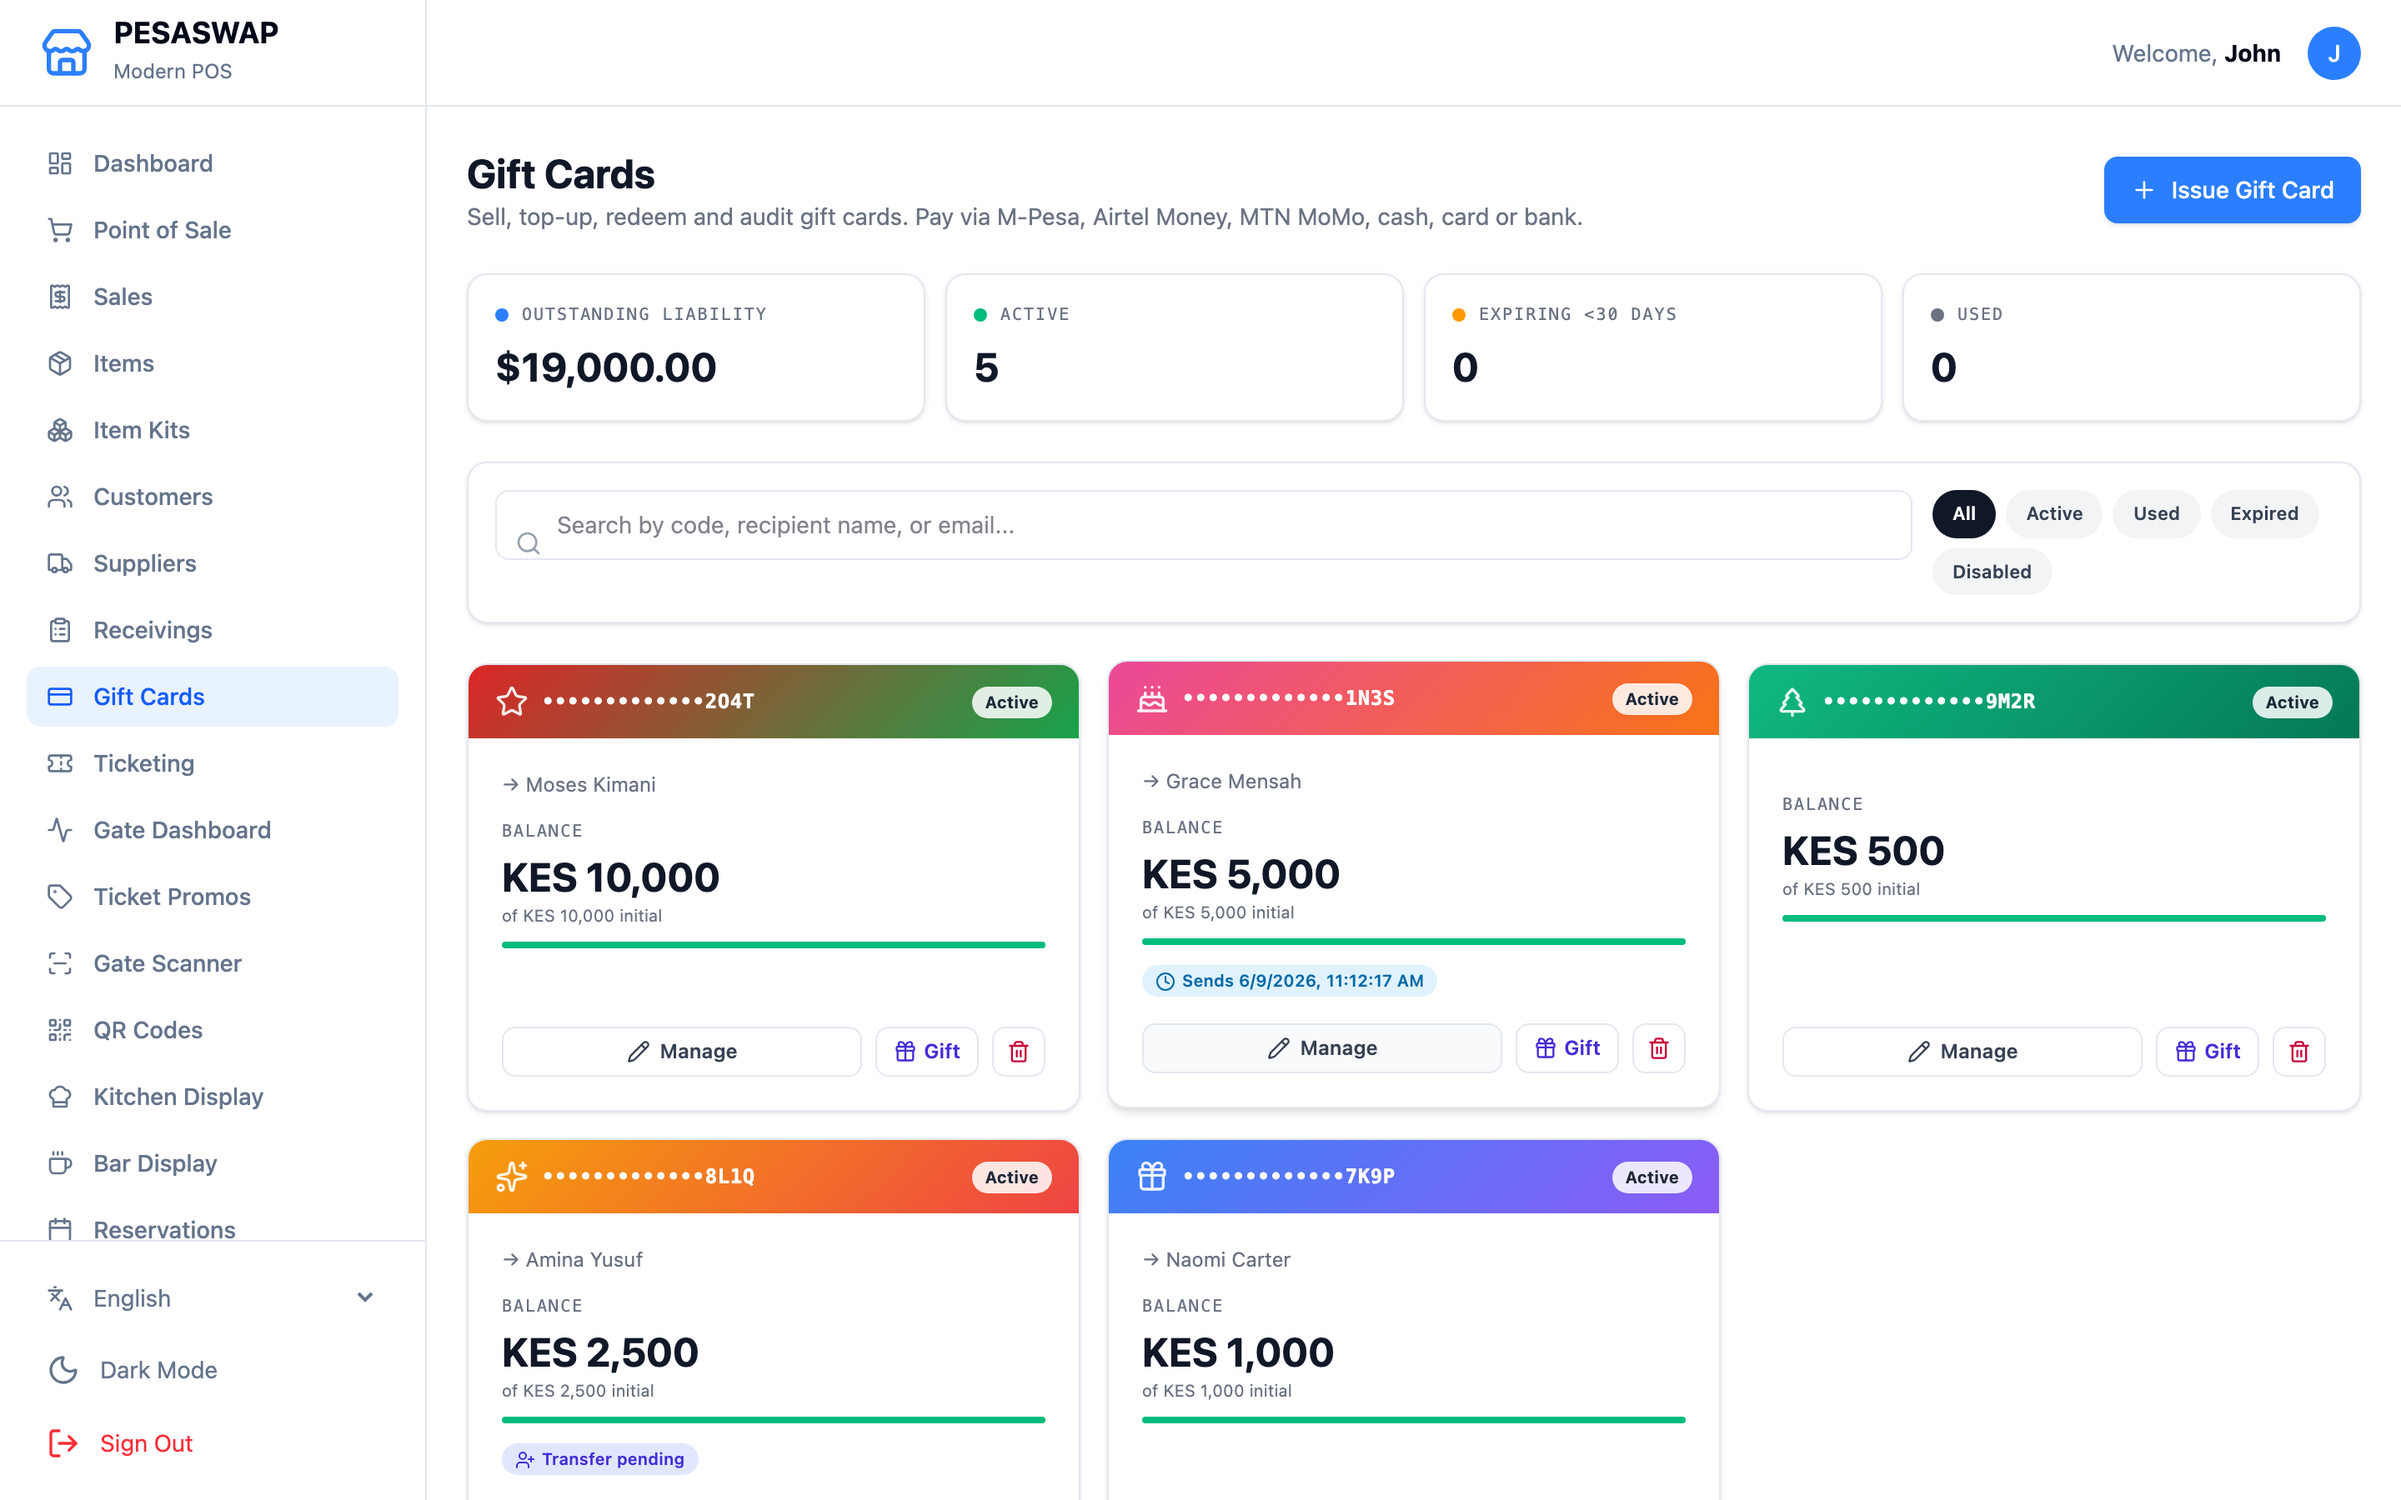
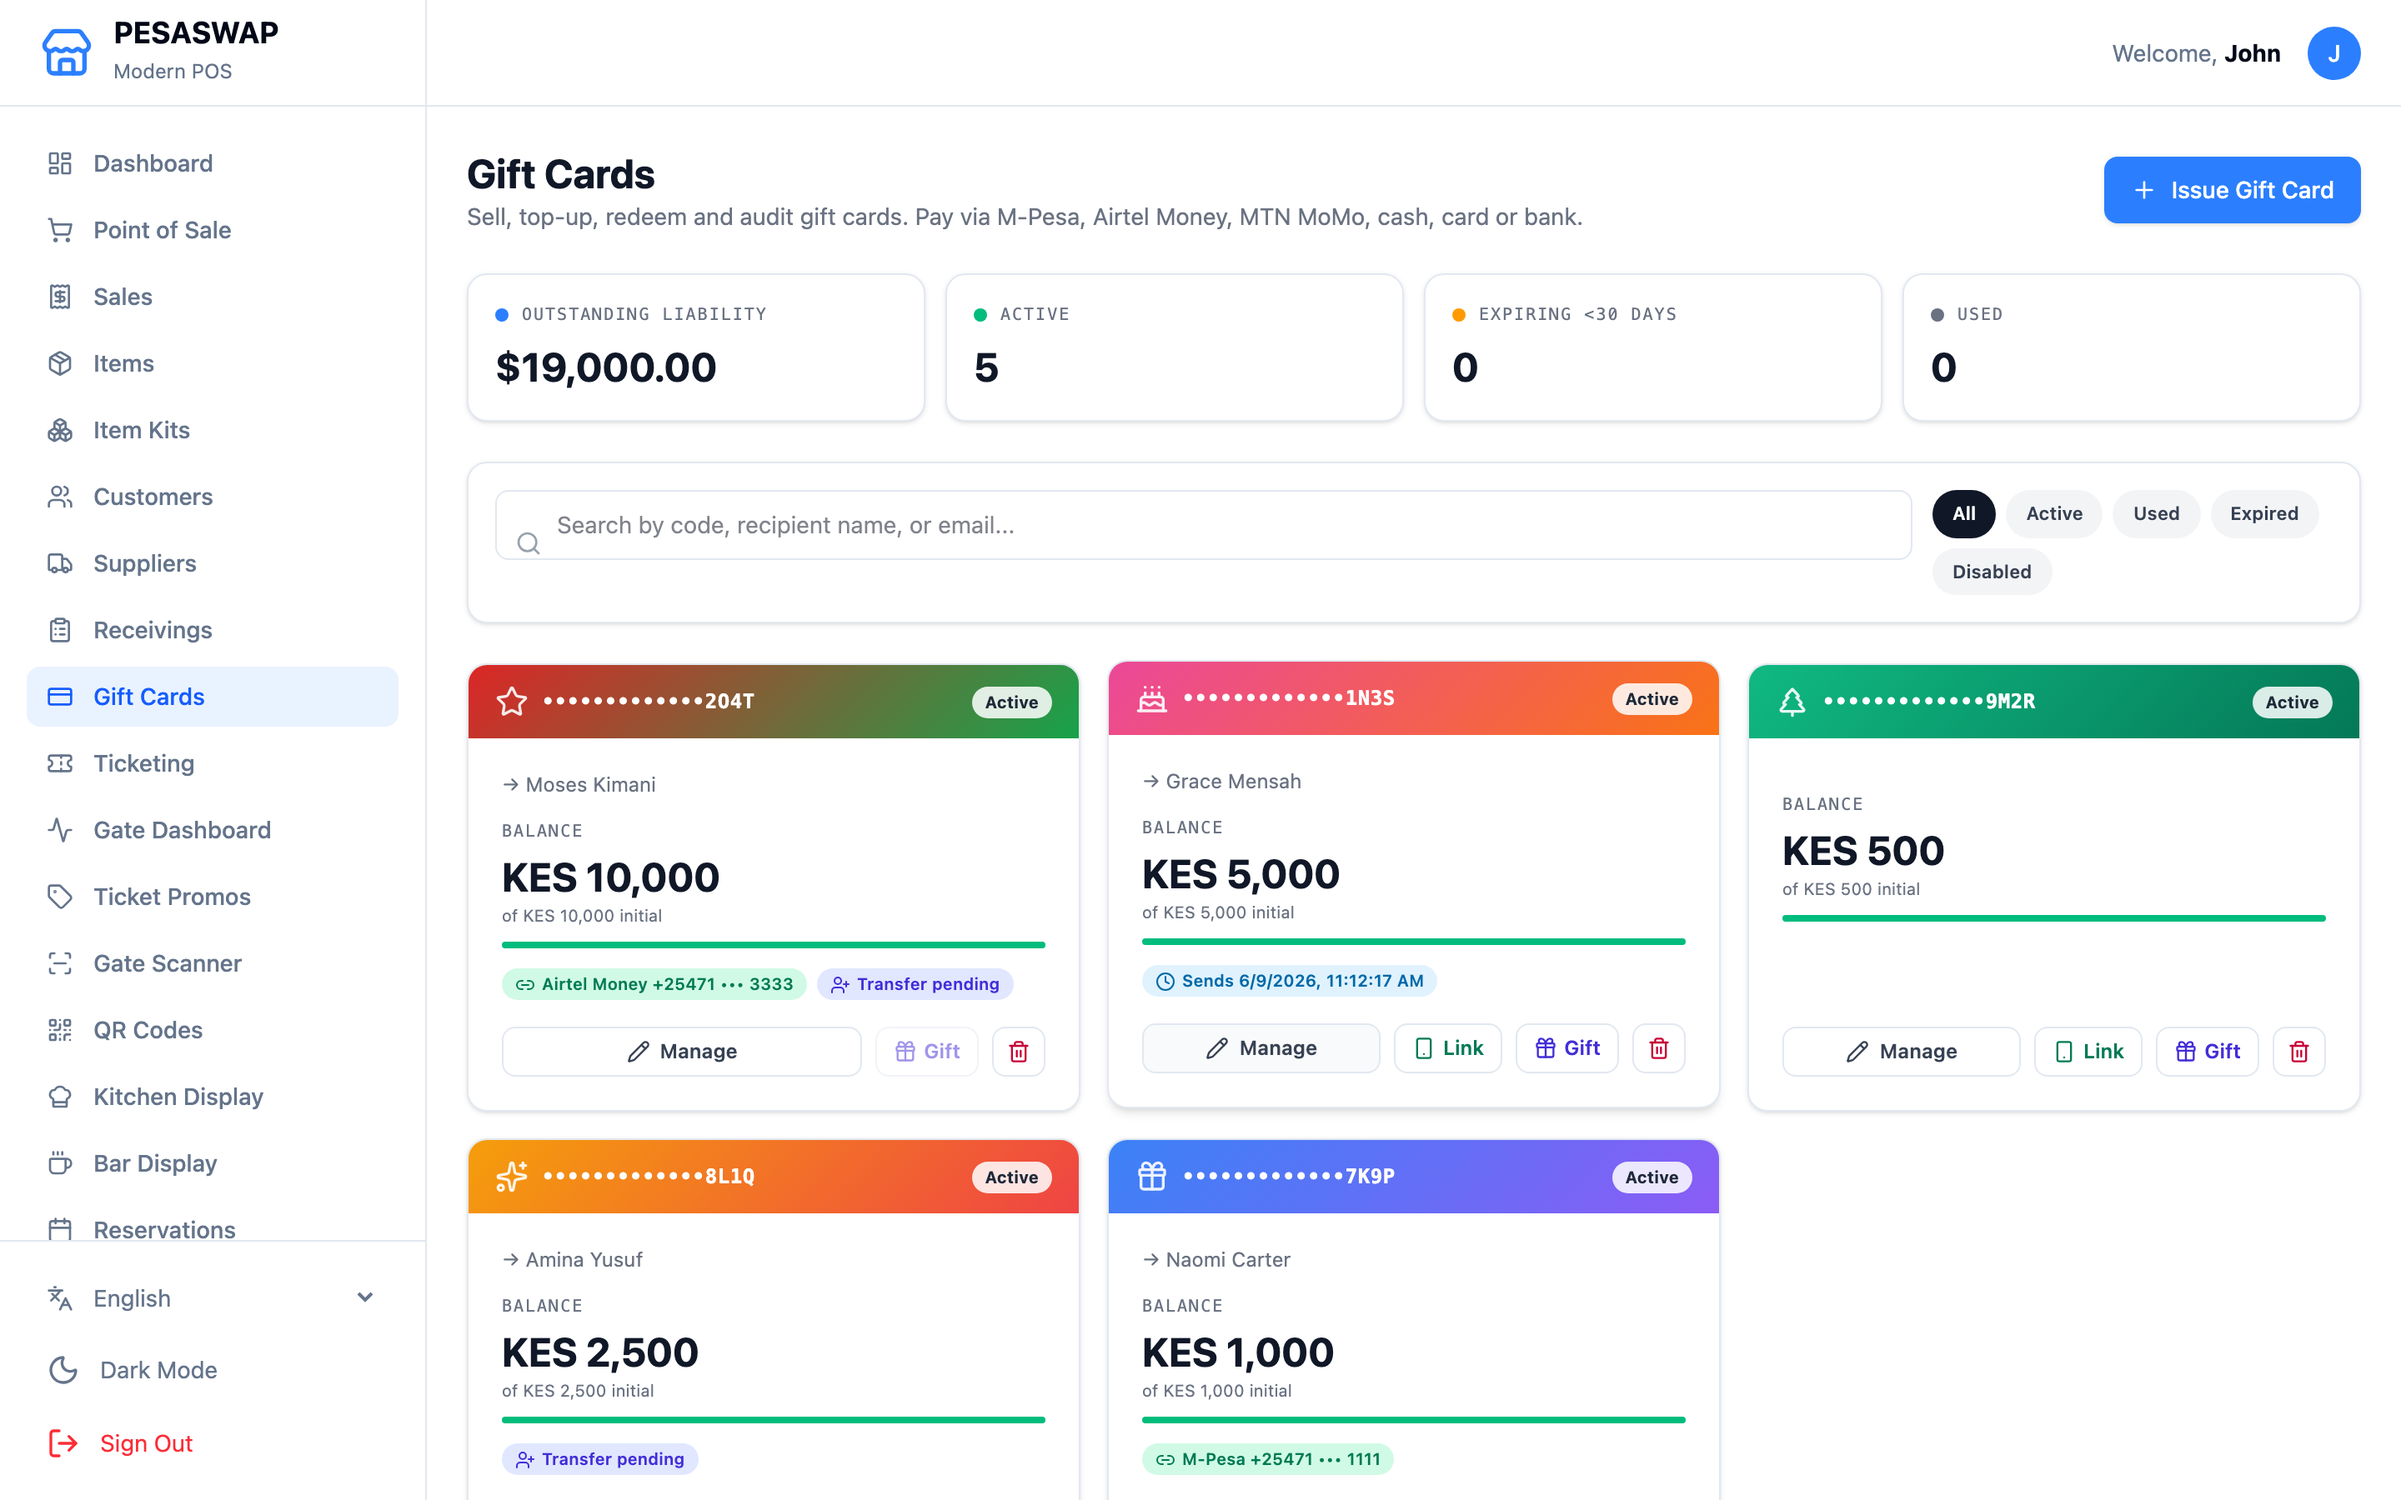
docs(screenshots): add 5 NFC-binding + tender + self-service screenshots, refresh 2
Refreshed:
  - 15-giftcards-list — now shows green 'M-Pesa ••• 1111' / 'Airtel ••• 3333'
    linked-phone badges on bound cards + the new 'Link' button alongside
    Manage / Gift / Disable on unbound cards.
  - 17-giftcards-detail — now shows the 'Linked to phone' panel above the
    actions row (Unlink button on bound cards, 'Link to phone' CTA on
    unbound).

New:
  - 27-giftcards-bind-modal — cashier-facing modal with phone-number entry,
    M-Pesa / Airtel / MTN MoMo picker, and the 'How NFC binding works'
    explainer. STK push fires for PIN authorisation.
  - 28-giftcards-tender-scan — tender-demo page step 1: scan a card or
    search by code, or skip for a bearer payment.
  - 29-giftcards-tender-picker — the multi-tender picker: card balance,
    default MNO (★), other MNOs (M-Pesa / Airtel / MTN MoMo), PESASWAP
    Wallet (KES 3,500), Co-op direct debit, Co-op BNPL. Each gated by
    sufficiency + customer context.
  - 31-public-giftcard-self-service (mobile) — customer portal in the
    linked state: card preview, 'Linked to your phone' green panel with
    Unlink button, recent activity, Danger Zone.
  - 32-public-giftcard-self-service-link (mobile) — customer portal in
    the unlinked state: 'Link to your phone' form with provider picker.

README.md gains a new sub-section 'Gift Cards — multi-tender flow (NFC
binding + STK push + wallet + Co-op + BNPL)' that surfaces the new tender
picker + the two self-service portal states.
[…]

diff --git a/README.md b/README.md
@@ -72,16 +72,30 @@ PESASWAP takes the proven OSPOS PHP backend (sales, customers, items, employees,
 
 <table>
   <tr>
-    <td align="center"><img src="docs/screenshots/15-giftcards-list.png" alt="Gift card list with design strips" width="100%"><br><sub><b>Gift Cards list</b> — gradient design strips, "Transfer pending" + "Sends DATE" badges, Manage / Gift / Disable actions</sub></td>
+    <td align="center"><img src="docs/screenshots/15-giftcards-list.png" alt="Gift card list with design strips + linked badges" width="100%"><br><sub><b>Gift Cards list</b> — gradient design strips, "M-Pesa ••• 1111" / "Airtel ••• 3333" linked-phone badges, "Transfer pending" + "Sends DATE" pills, Manage / Link / Gift / Disable actions</sub></td>
     <td align="center"><img src="docs/screenshots/16-giftcards-create.png" alt="Issue gift card modal" width="100%"><br><sub><b>Issue Gift Card</b> — design picker (6 templates) + preset KES denomination chips + optional scheduled delivery</sub></td>
   </tr>
   <tr>
-    <td align="center"><img src="docs/screenshots/17-giftcards-detail.png" alt="Gift card detail with transfer banner" width="100%"><br><sub><b>Gift card detail</b> — QR + audit history + pending-transfer freeze banner (Redeem/Top-up/Refund/Adjust disabled while transfer pending)</sub></td>
-    <td align="center"><img src="docs/screenshots/24-public-giftcard-transfer.png" alt="Public accept-a-gift page" width="100%"><br><sub><b>/giftcard/transfer/:token</b> — public accept page (no auth). Accepts the gift → server rotates the code, sender's copy stops working.</sub></td>
+    <td align="center"><img src="docs/screenshots/17-giftcards-detail.png" alt="Gift card detail with linked-phone panel" width="100%"><br><sub><b>Gift card detail</b> — linked-phone panel + pending-transfer freeze + QR + audit history + 5-button actions row (Redeem / Top-up / Refund / Adjust / Send as gift)</sub></td>
+    <td align="center"><img src="docs/screenshots/27-giftcards-bind-modal.png" alt="Bind card to phone modal" width="100%"><br><sub><b>Bind to phone</b> — cashier picks the customer's MNO (M-Pesa / Airtel / MTN MoMo); STK push fires to the customer's handset for PIN authorisation</sub></td>
   </tr>
   <tr>
-    <td align="center"><img src="docs/screenshots/18-giftcards-designs.png" alt="Gift card designs admin" width="100%"><br><sub><b>Designs admin</b> — CRUD gradient templates (background, accent, text, lucide icon) seeded with Classic/Sunset/Forest/Birthday/Holiday/Wedding</sub></td>
+    <td align="center"><img src="docs/screenshots/24-public-giftcard-transfer.png" alt="Public accept-a-gift page" width="100%"><br><sub><b>/giftcard/transfer/:token</b> — public accept page (no auth). Accepts the gift → server rotates the code, sender's copy stops working.</sub></td>
+    <td align="center"><img src="docs/screenshots/18-giftcards-designs.png" alt="Gift card designs admin" width="100%"><br><sub><b>Designs admin</b> — CRUD gradient templates seeded with Classic/Sunset/Forest/Birthday/Holiday/Wedding</sub></td>
+  </tr>
+  <tr>
     <td align="center"><img src="docs/screenshots/19-giftcards-denominations.png" alt="Gift card denominations admin" width="100%"><br><sub><b>Denominations admin</b> — preset amounts per currency, snapshotted onto issued cards so later edits don't rewrite history</sub></td>
+    <td align="center"><img src="docs/screenshots/28-giftcards-tender-scan.png" alt="Tender demo — scan card" width="100%"><br><sub><b>Tender Demo — Scan card</b> — cashier scans an NFC card or searches by code, or skips for a bearer payment</sub></td>
+  </tr>
+</table>
+
+### Gift Cards — multi-tender flow (NFC binding + STK push + wallet + Co-op + BNPL)
+
+<table>
+  <tr>
+    <td align="center" width="55%"><img src="docs/screenshots/29-giftcards-tender-picker.png" alt="Tender Picker with multiple sources" width="100%"><br><sub><b>Tender Picker</b> — once a card is scanned, the picker lists card balance, the customer's bound MNO (default ★), other MNOs, PESASWAP Wallet, Co-op direct debit and Co-op BNPL — each gated by sufficiency and customer context. On selection: live <code>pending → awaiting_pin → completed</code> status pill with cancel.</sub></td>
+    <td align="center" width="22%"><img src="docs/screenshots/31-public-giftcard-self-service.png" alt="Customer self-service portal (linked)" width="100%"><br><sub><b>/giftcard/:code/self-service</b> (linked) — customer manages their card from any mobile browser: balance, recent activity, Unlink (OTP-gated), Disable (Danger Zone, OTP-gated)</sub></td>
+    <td align="center" width="22%"><img src="docs/screenshots/32-public-giftcard-self-service-link.png" alt="Customer self-service portal (unlinked)" width="100%"><br><sub><b>/giftcard/:code/self-service</b> (unlinked) — link-my-phone flow: enter number, pick provider, authorise via STK PIN</sub></td>
   </tr>
 </table>
 
